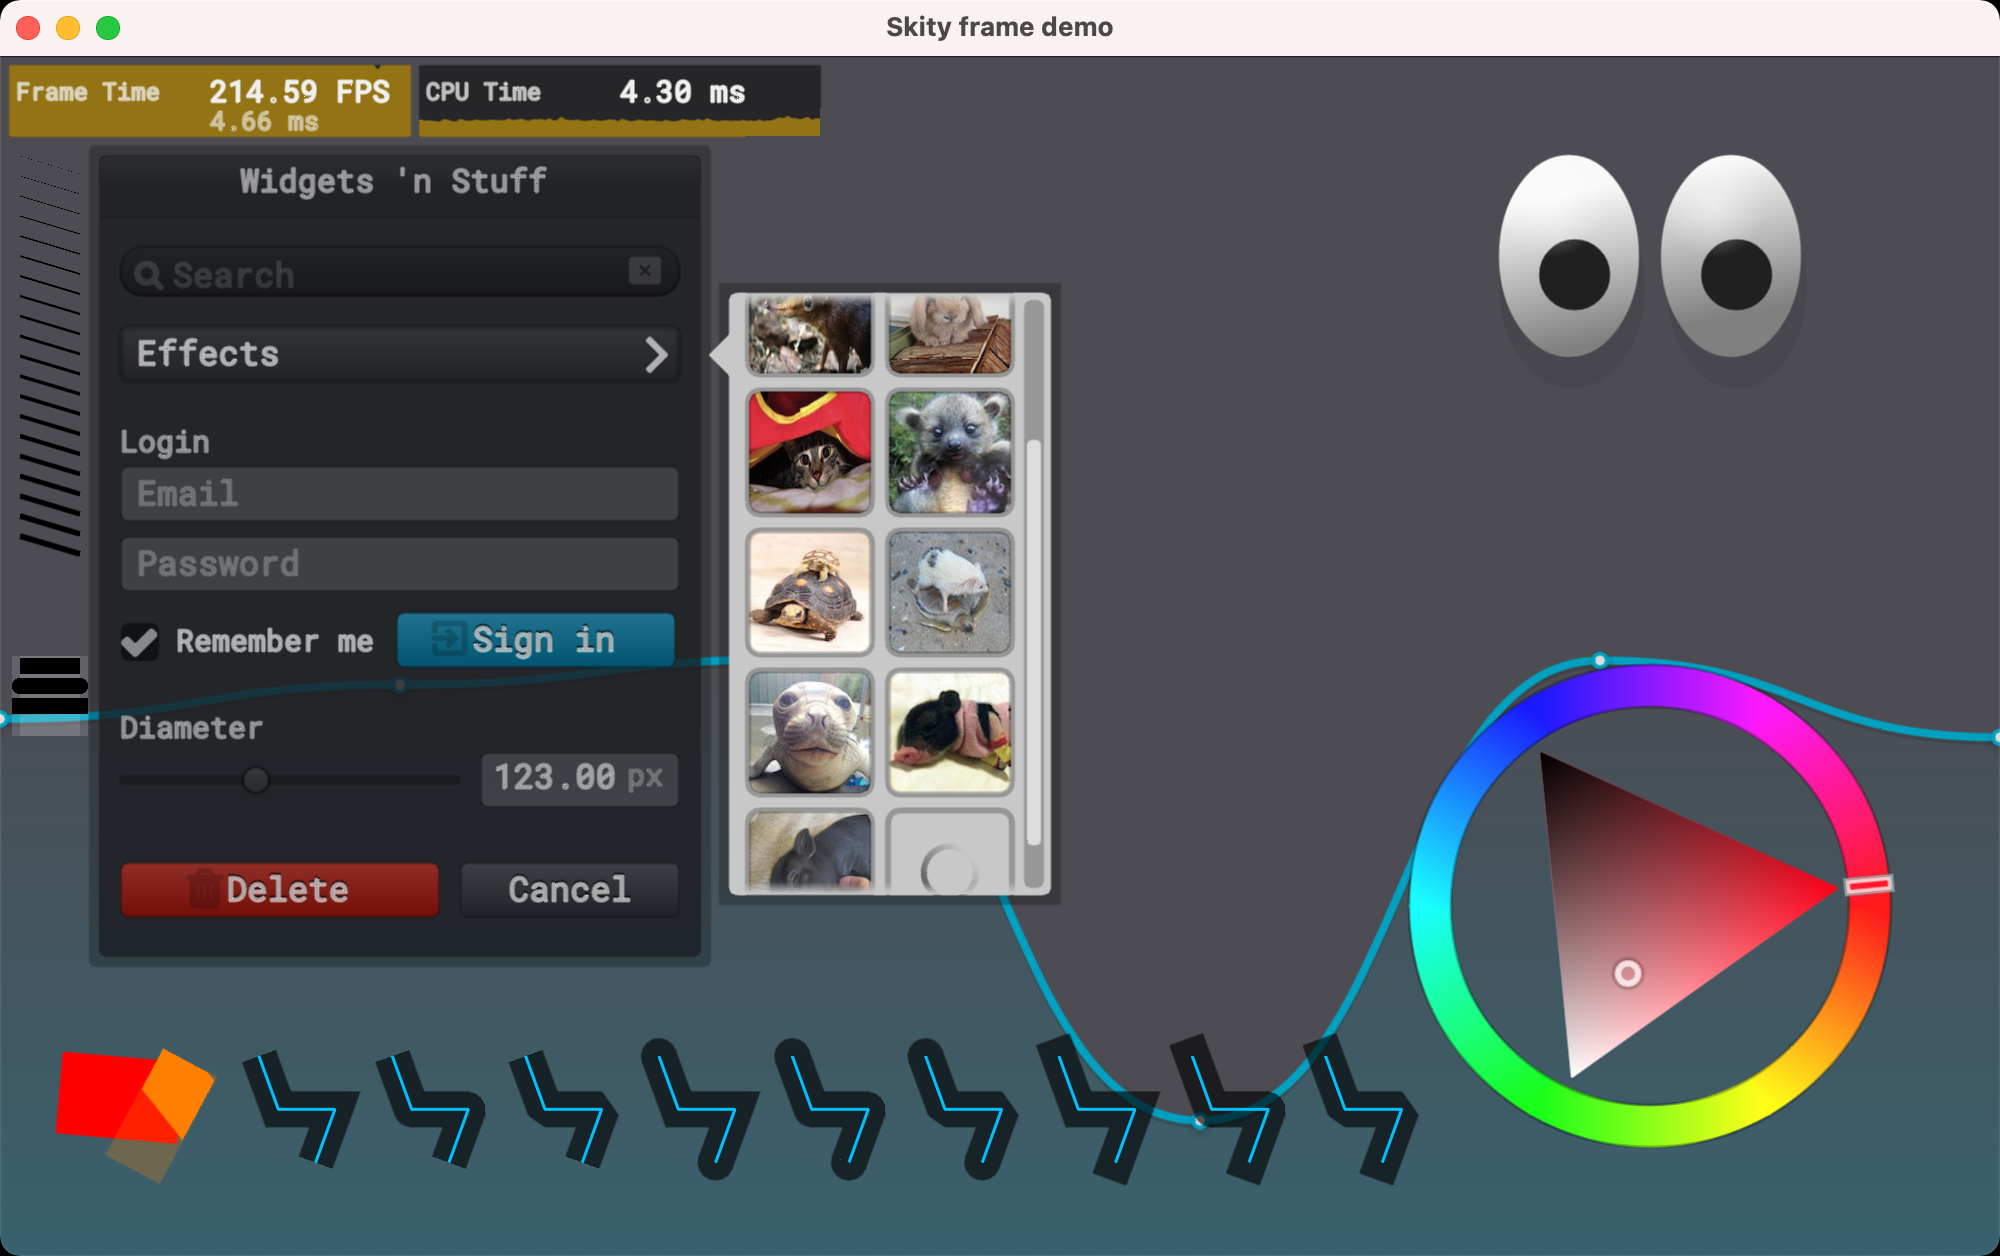
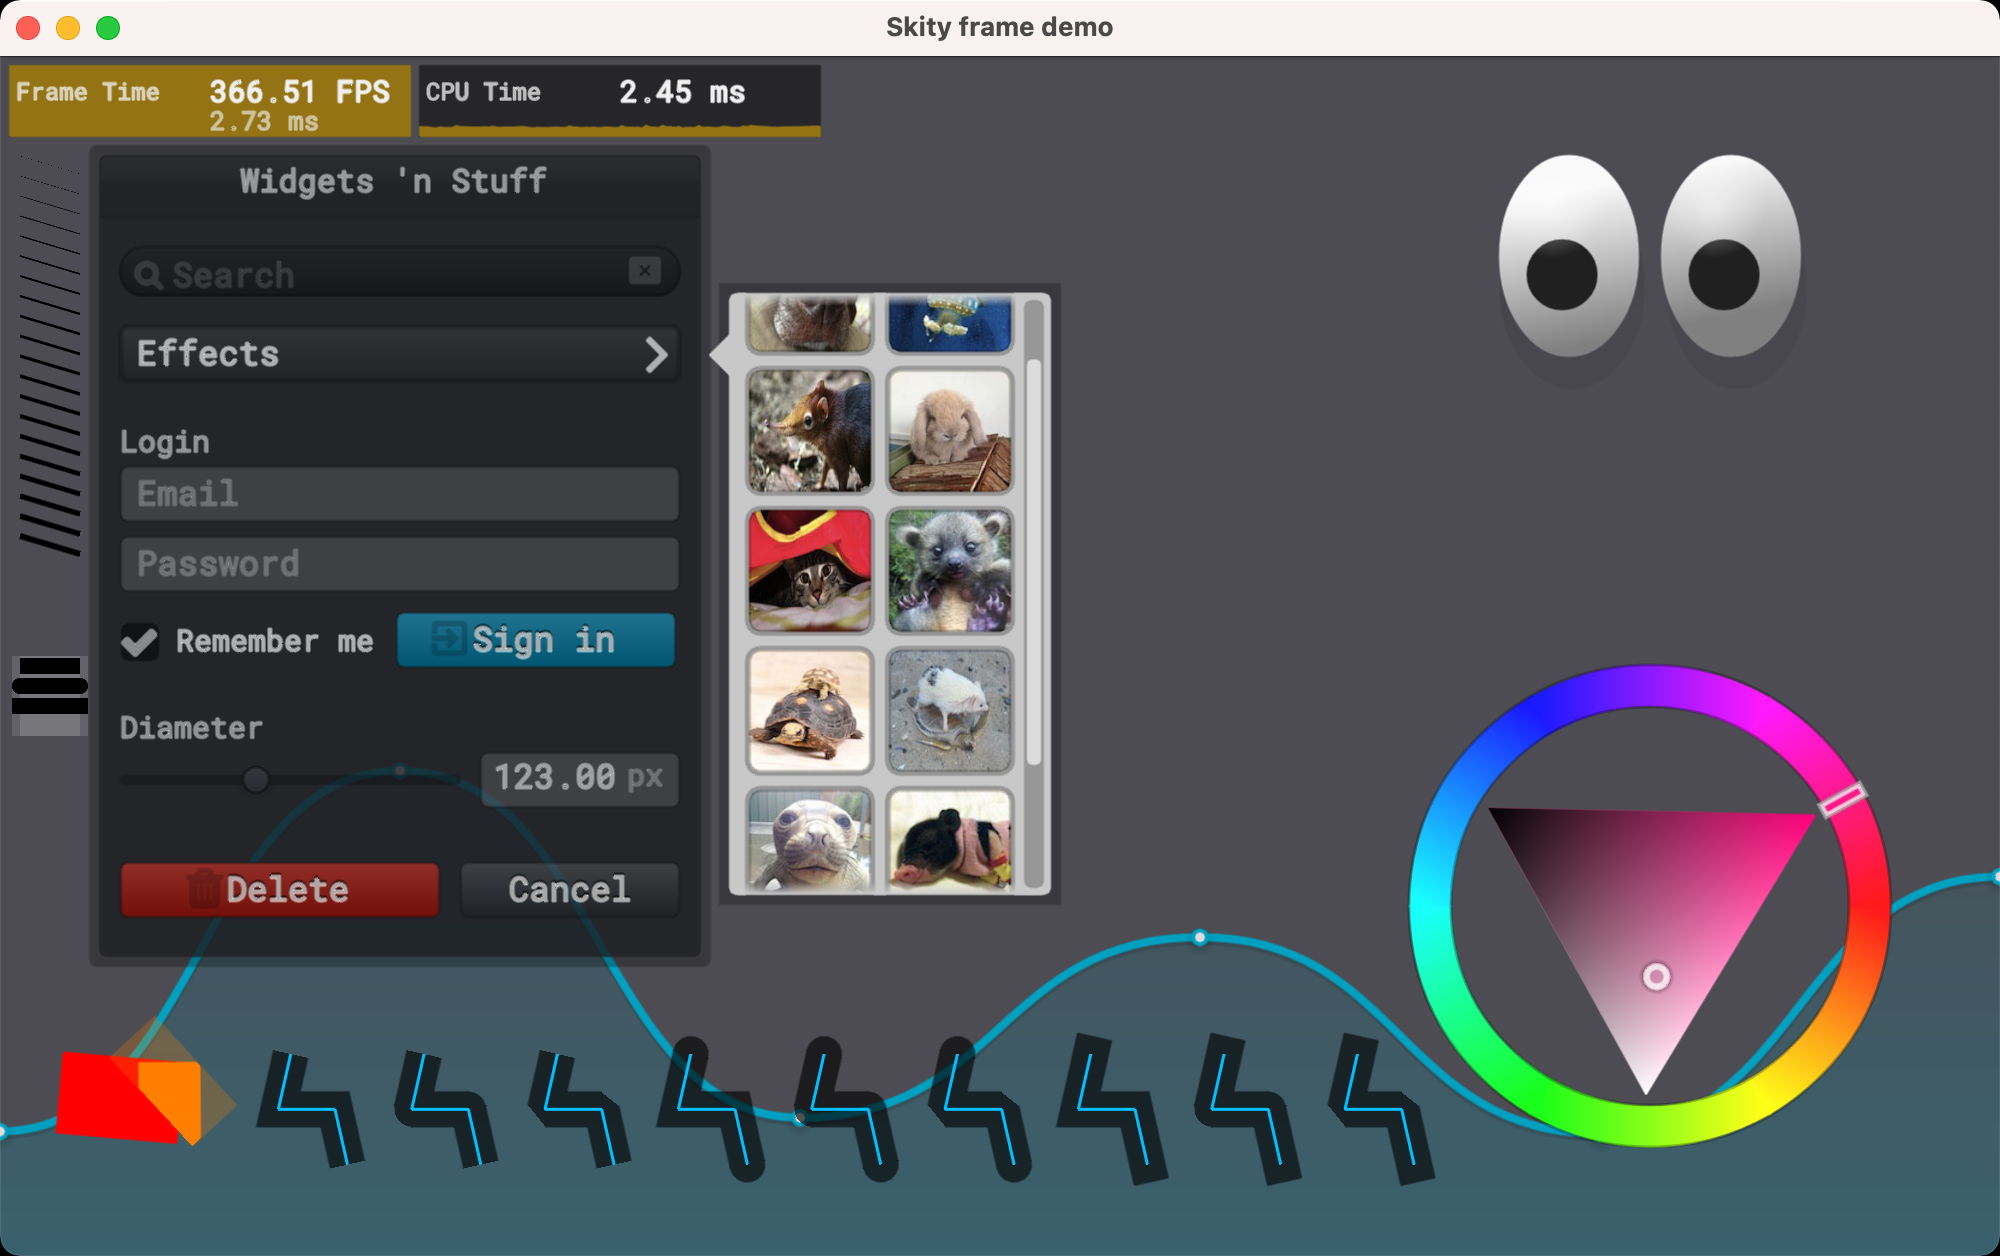
Update example and README

diff --git a/example/frame_example.cc b/example/frame_example.cc
@@ -81,7 +81,7 @@ void draw_thumbnails(skity::Canvas* canvas,
 void draw_spinner(skity::Canvas* canvas, float cx, float cy, float r, float t);
 
 void draw_tiger_svg(skity::Canvas* canvas, skity::SVGDom* svg, float x, float y,
-                    float w, float h);
+                    float w, float h, float t);
 
 int main(int argc, const char** argv) {
   GLFWwindow* window = nullptr;
@@ -175,7 +175,8 @@ void render_frame_demo(
   draw_eyes(canvas, width - 250, 50, 150, 100, mx, my, t);
   // draw_paragraph
   draw_graph(canvas, 0, height / 2.f, width, height / 2.f, t);
-  draw_tiger_svg(canvas, svg, width / 2.f + 50, 100.f, 200.f, 200.f);
+  // this make some performance issue
+  // draw_tiger_svg(canvas, svg, width / 2.f + 50, 100.f, 200.f, 200.f, t);
   draw_color_wheel(canvas, width - 300, height - 300, 250.f, 250.f, t);
 
   // Line joints
@@ -1284,10 +1285,11 @@ void draw_spinner(skity::Canvas* canvas, float cx, float cy, float r, float t) {
 }
 
 void draw_tiger_svg(skity::Canvas* canvas, skity::SVGDom* svg, float x, float y,
-                    float w, float h) {
+                    float w, float h, float t) {
   canvas->save();
 
   canvas->translate(x, y);
+  canvas->rotate(glm::degrees(t), 100, 100);
   float sx = w / 900.f;
   float sy = h / 900.f;
   canvas->scale(sx, sy);

diff --git a/README.md b/README.md
@@ -11,6 +11,9 @@ Working in progress nanovg demo <br/>
 
 ![nanovg](./resources/nanovg_demo.png)
 
+Parse and render svg file: [tiger.svg](./example/images/tiger.svg)
+![tiger.svg](./resources/tiger.png)
+
 same as [skia demo](https://fiddle.skia.org/c/66a829e00c752fe96e2ef4195cdc5454)<br/>
 code is [example.cc](./example/example.cc)
 <br/>
@@ -69,6 +72,10 @@ make
   - Cocec interface
   - png image decode (need install [libpng](http://www.libpng.org/pub/png/libpng.html))
   - jpg image decode (need install [libjpeg-turbo](https://www.libjpeg-turbo.org/))
+
+- SVG (in progress)
+  - basic svg tag parser
+    - `<svg>` `<g>` `<path>` `<circle>` `<rect>`
 
 ## Reference
 
